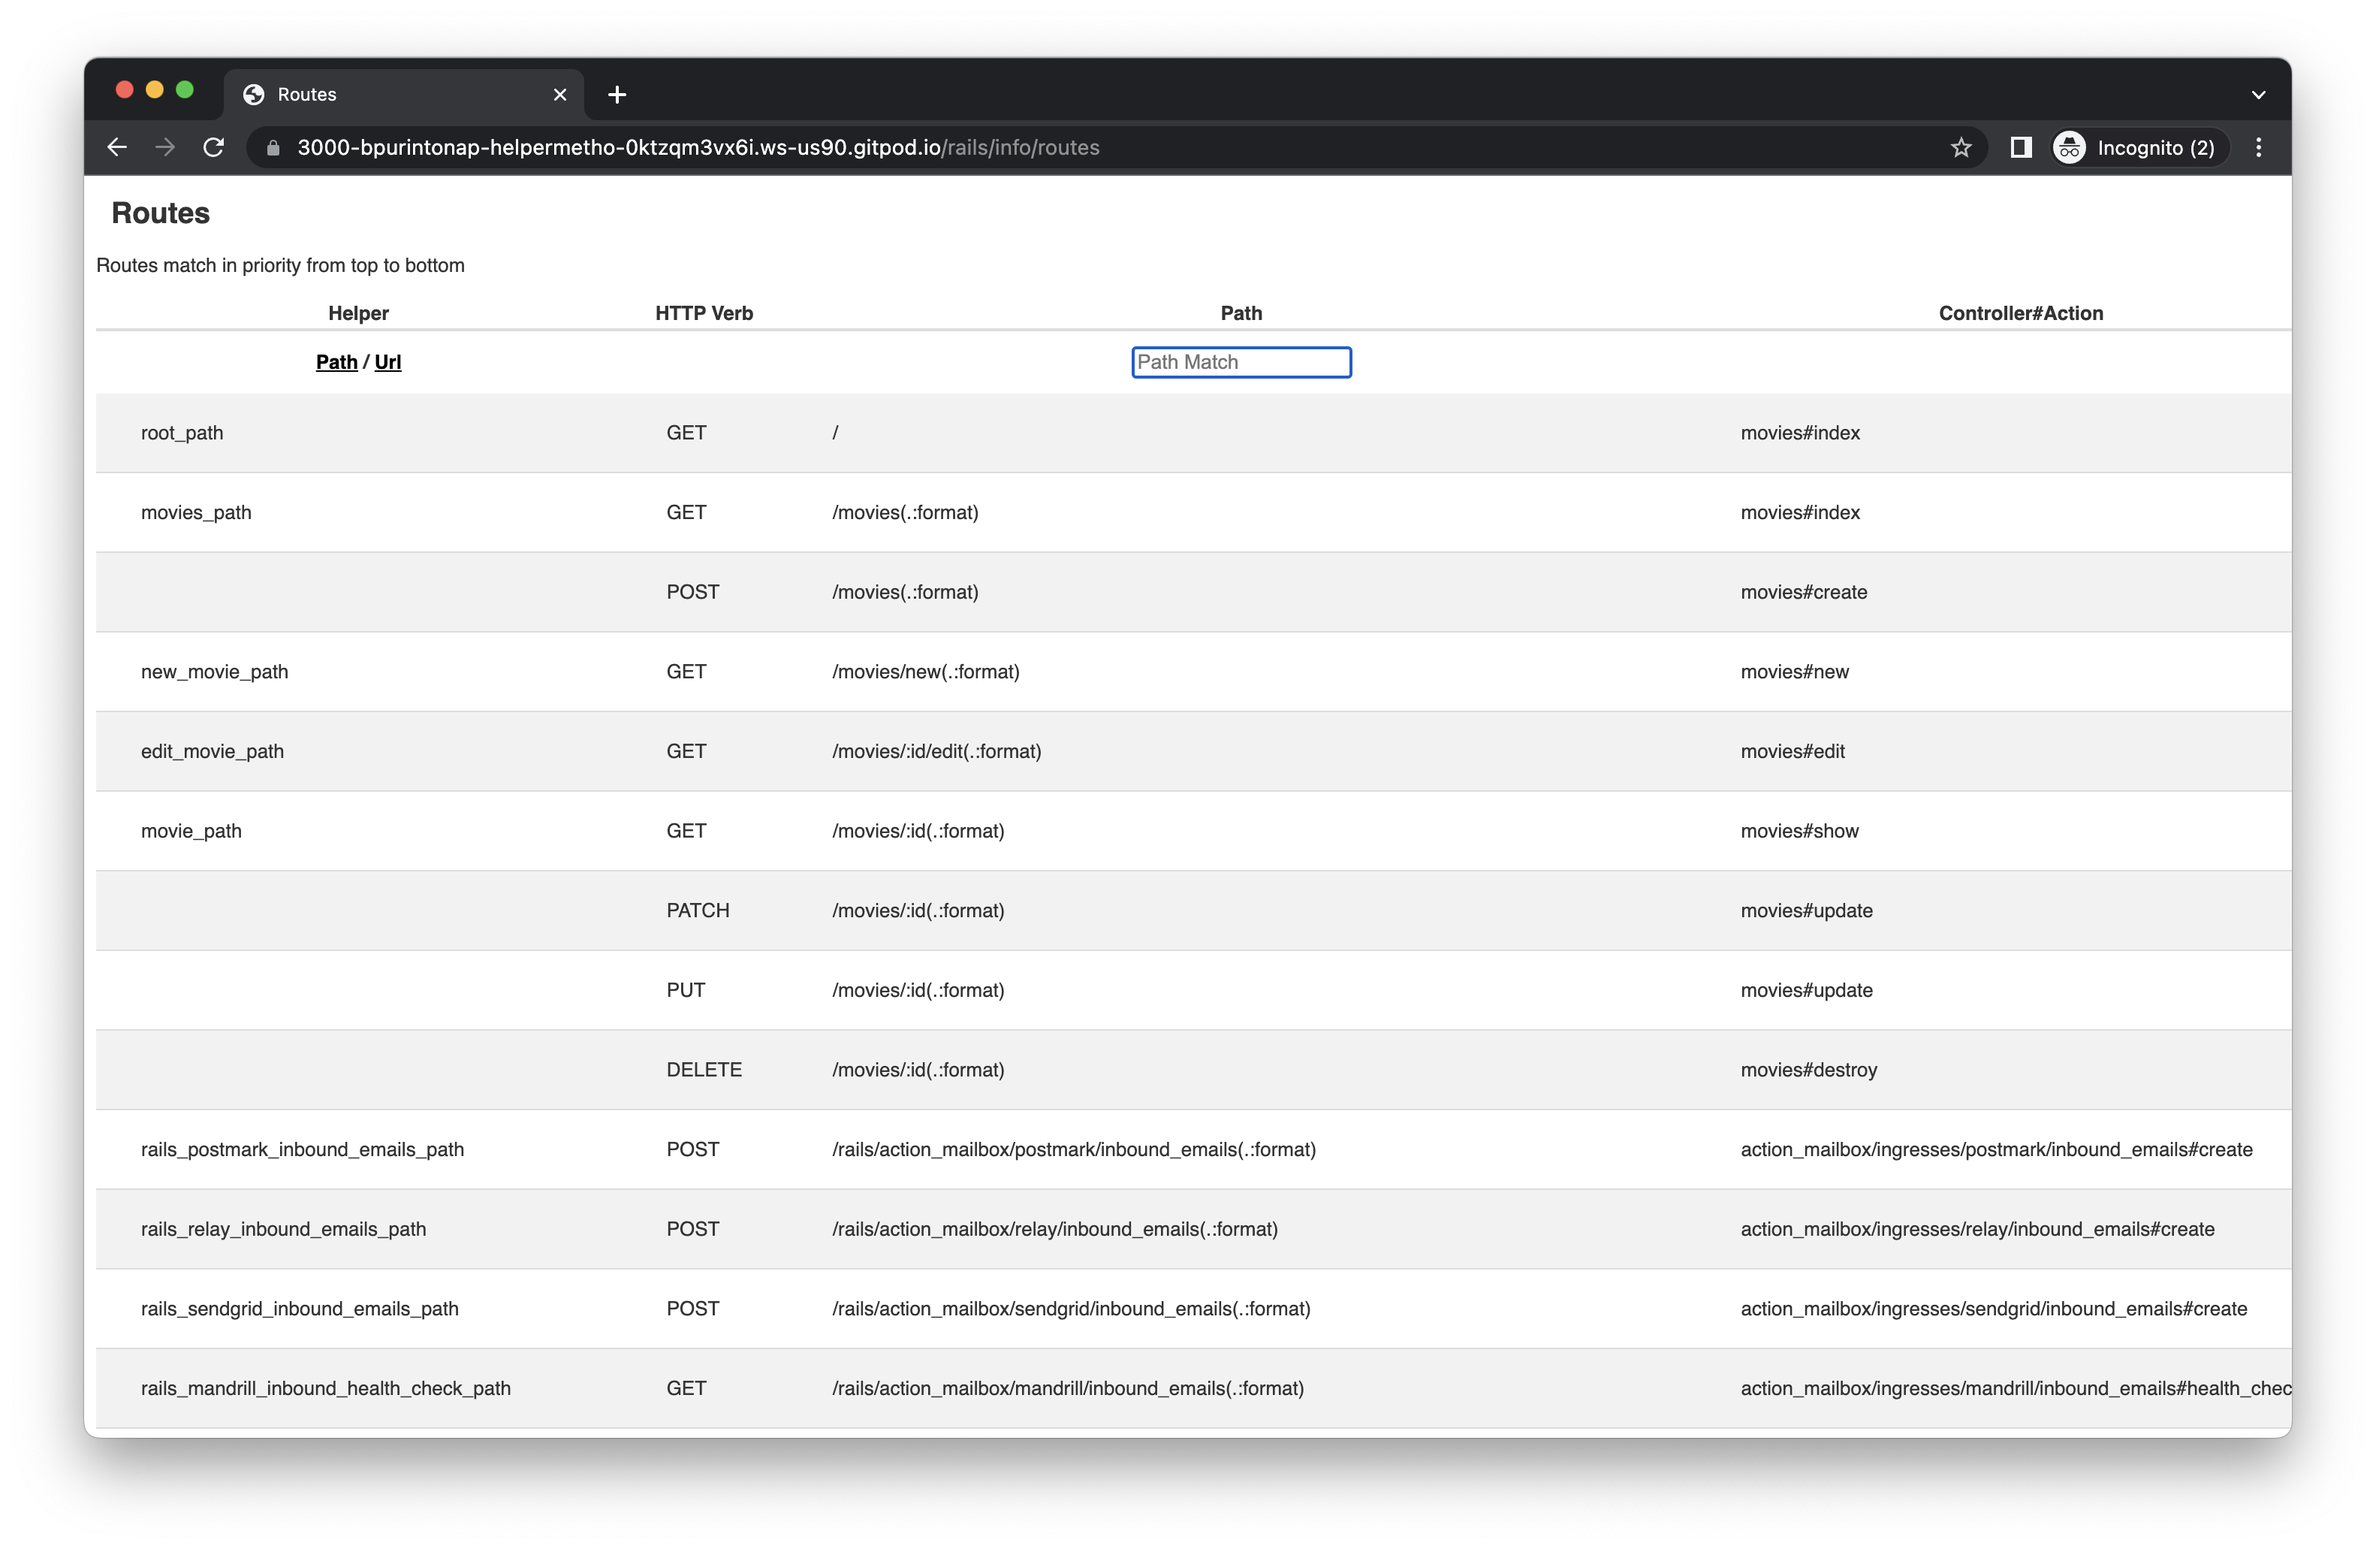
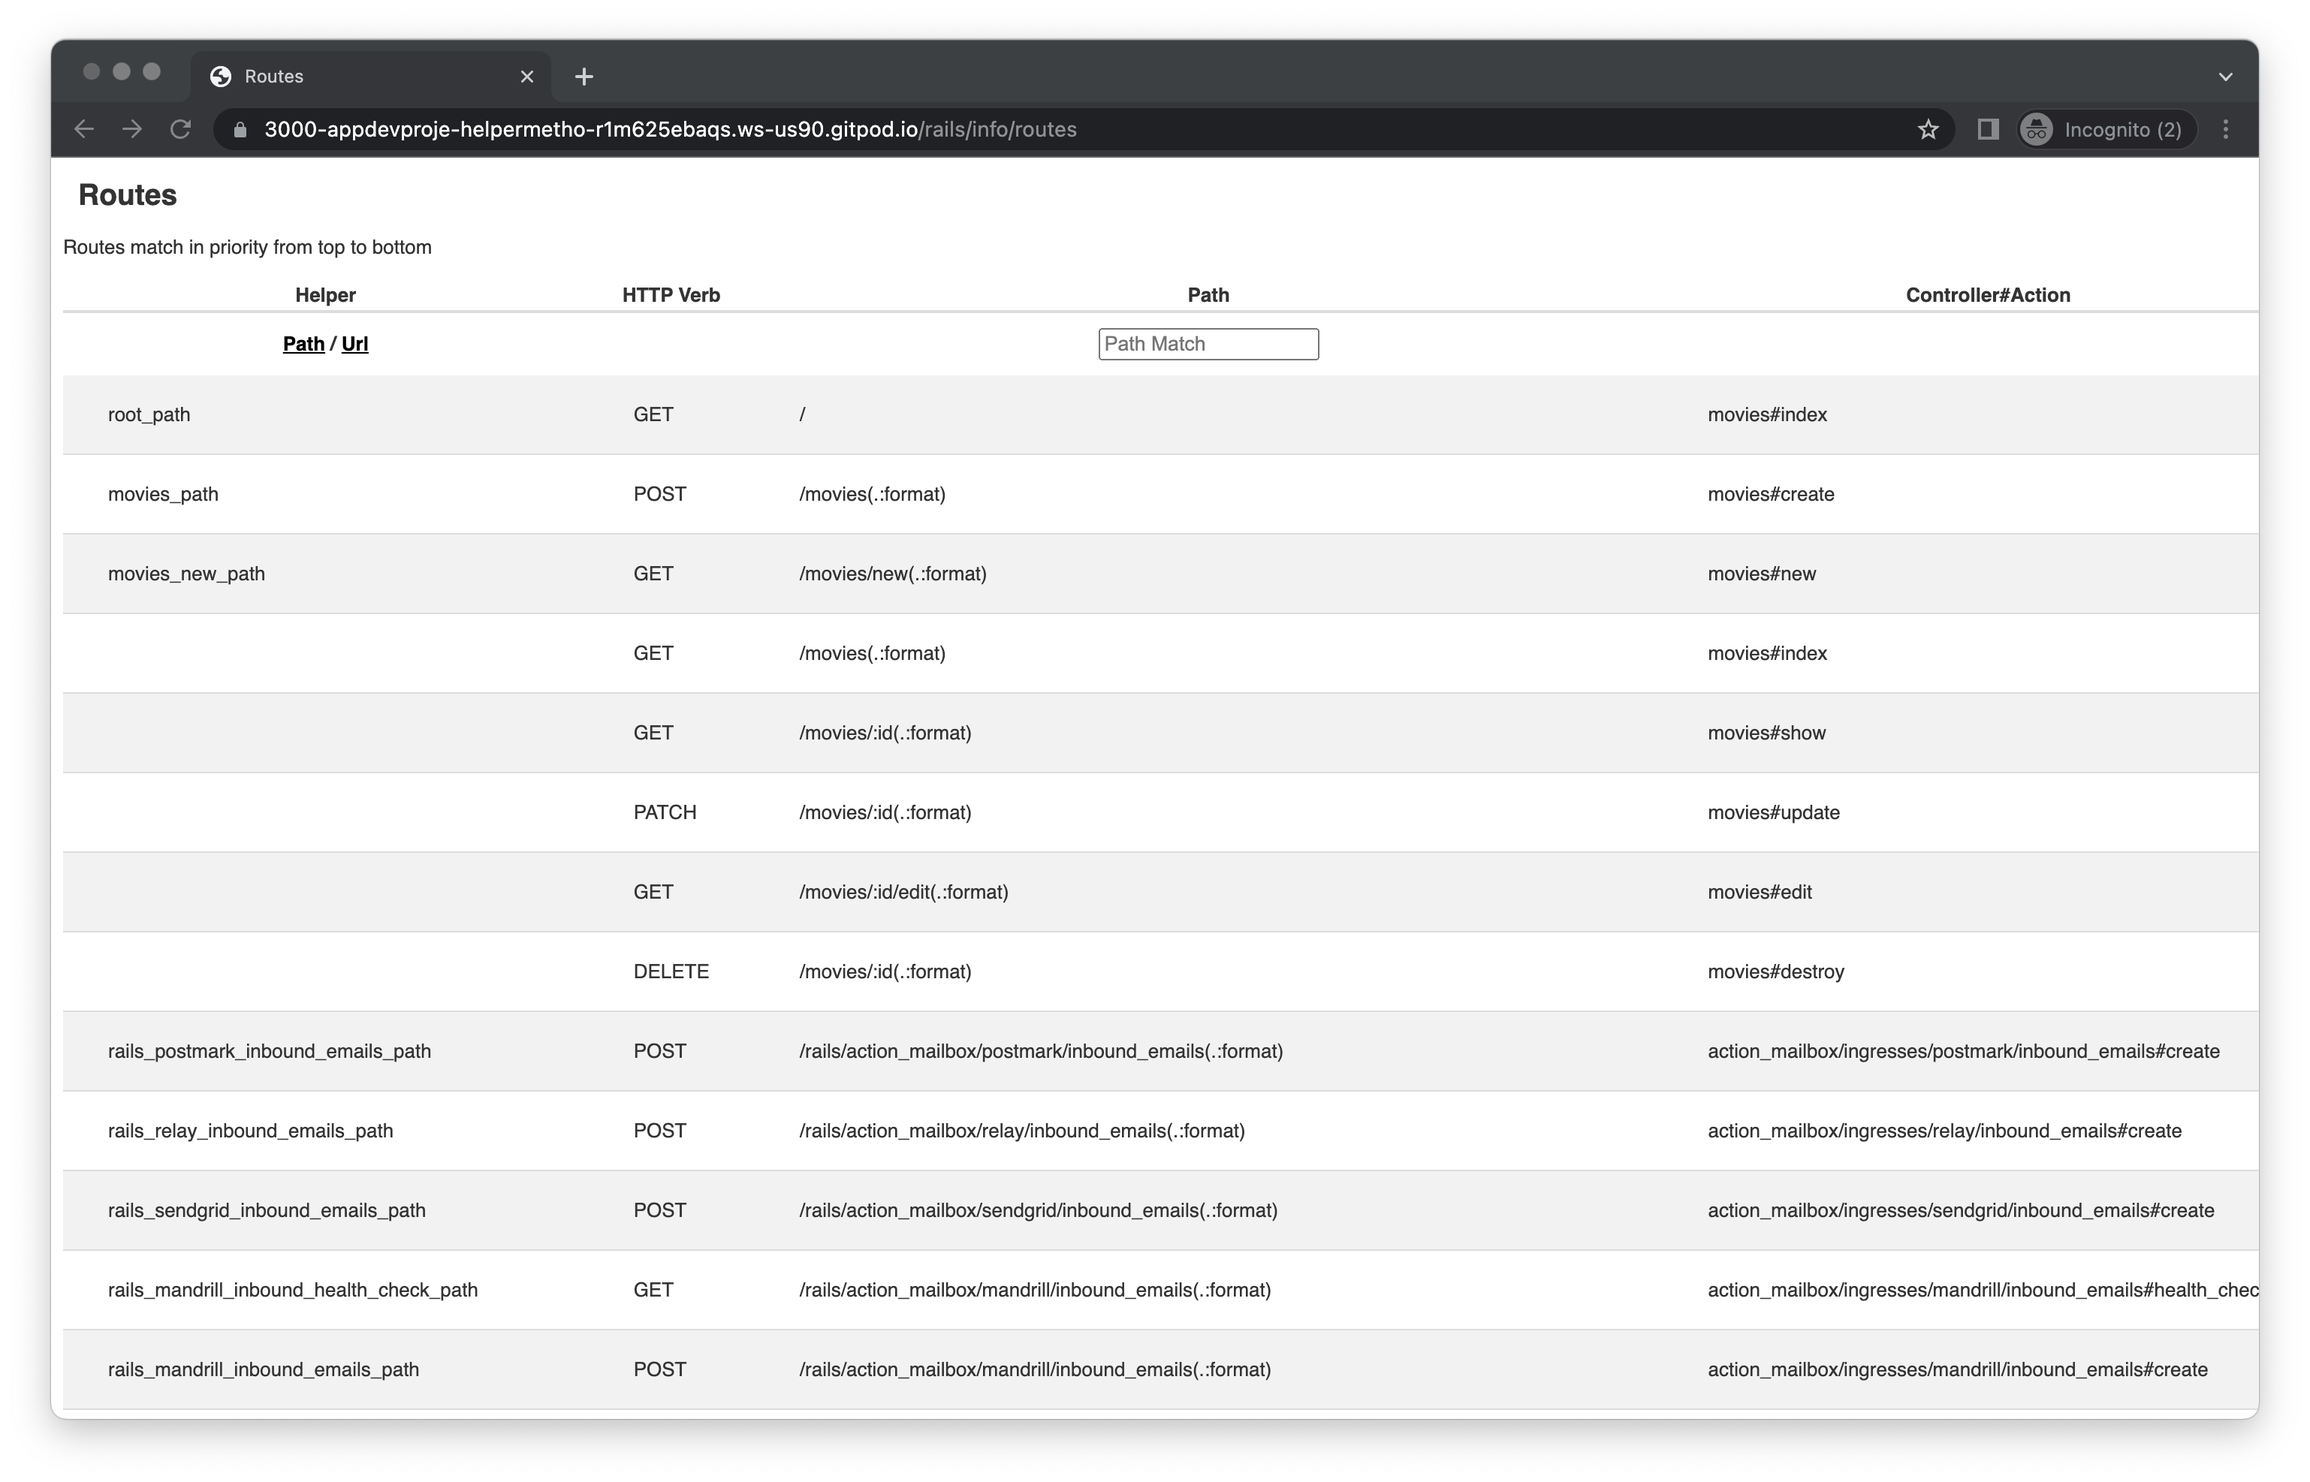
WIP

diff --git a/lessons/ad2-helper-methods-pt1.md b/lessons/ad2-helper-methods-pt1.md
@@ -157,16 +157,15 @@ Next, let's talk about a built-in `rake task` that comes with Rails, much like `
 
 ```bash
 gitpod /workspace/helper-methods:(main) $ rails routes
-            Prefix Verb   URI Pattern                      Controller#Action
-              root GET    /                                movies#index
-            movies GET    /movies(.:format)                movies#index
-                   POST   /movies(.:format)                movies#create
-         new_movie GET    /movies/new(.:format)            movies#new
-        edit_movie GET    /movies/:id/edit(.:format)       movies#edit
-             movie GET    /movies/:id(.:format)            movies#show
-                   PATCH  /movies/:id(.:format)            movies#update
-                   PUT    /movies/:id(.:format)            movies#update
-                   DELETE /movies/:id(.:format)            movies#destroy
+                Prefix Verb   URI Pattern                         Controller#Action
+                  root  GET    /                                   movies#index
+                movies  POST   /movies(.:format)                   movies#create
+            movies_new  GET    /movies/new(.:format)               movies#new
+                        GET    /movies(.:format)                   movies#index
+                        GET    /movies/:id(.:format)               movies#show
+                        PATCH  /movies/:id(.:format)               movies#update
+                        GET    /movies/:id/edit(.:format)          movies#edit
+                        DELETE /movies/:id(.:format)               movies#destroy
 ```
 
 There's a whole bunch in here. You may need to make your terminal wider to prevent line wrapping, since it's trying to print a big table with the columns `Prefix`, `Verb`, `URI Pattern`, and `Controller#Action`. We just want to foucs on the top of the table.
@@ -179,7 +178,7 @@ What about the `Prefix`?
 
 Well, we just saw that Rails comes with the method `root` that always defines the **/** homepage route. `Prefix` means that Rails has defined a method that we can call _anywhere_ in our view templates, controller actions, etc., that will return the URL _with_ the defined HTTP verb. And look, there's some other methods defined in the `Prefix` column!
 
-You can also view all of this route information in your browser by navigating your live app to **/rails/info/routes**, and you will see a searchable table, with the actual full names of the helper methods (e.g., `root` is actually `root_path`):
+You can also view all of this route information in your browser by navigating your live app to **/rails/info/routes**, and you will see a searchable table, with the actual full names (not just the "prefix") of the helper methods (e.g., `root` is actually `root_path`):
 
 ![](/assets/rails-info-route.png)
 
@@ -206,13 +205,7 @@ Now refresh the **/movies** page in the live app to see what that embedded Ruby 
 
 What if we change the code to `<%= new_movies_path %>`? Refresh **/movies** after this change, and it renders `"/movies/new"`. Following this patter, `<%= root_path %>` just renders `"/"`, etc. for the other routes and methods.
 
-You might be wondering why that matters. 
-
-
-
-Well, we are allowed, so these were automatically assigned by Rails because it just kind of guessed it based on how many [00:13:30] segments and there's no dynamic parts to it.
-
-So when there's just a purely static route, Rails just kind of puts those segments together and gives you the method for. , but for all the rest, there's no methods. But we can name the routes and then we'll get methods. So let me go to routes dot rb and I can say, you know what, I want to call this show method and say [00:14:00] as details.
+You might be wondering why that matters. Well, the routes we mentioned so far the already have method assigned to them were automatically assigned by Rails. These were static routes, without dynamic ID numbers, so Rails just puts the segments together and gives you the method for. , but for all the rest, there's no methods. But we can name the routes and then we'll get methods. So let me go to routes dot rb and I can say, you know what, I want to call this show method and say [00:14:00] as details.
 
 Okay. So with this as option, I can name it. Now watch. What happens, the movie Details Path here, movie's, ID now has its own name, details Path. That's why it was called Prefix by the way, is cuz the underscore path gets appended to whatever we name it as. Now in my view template, I can put Details [00:14:30] path
 
